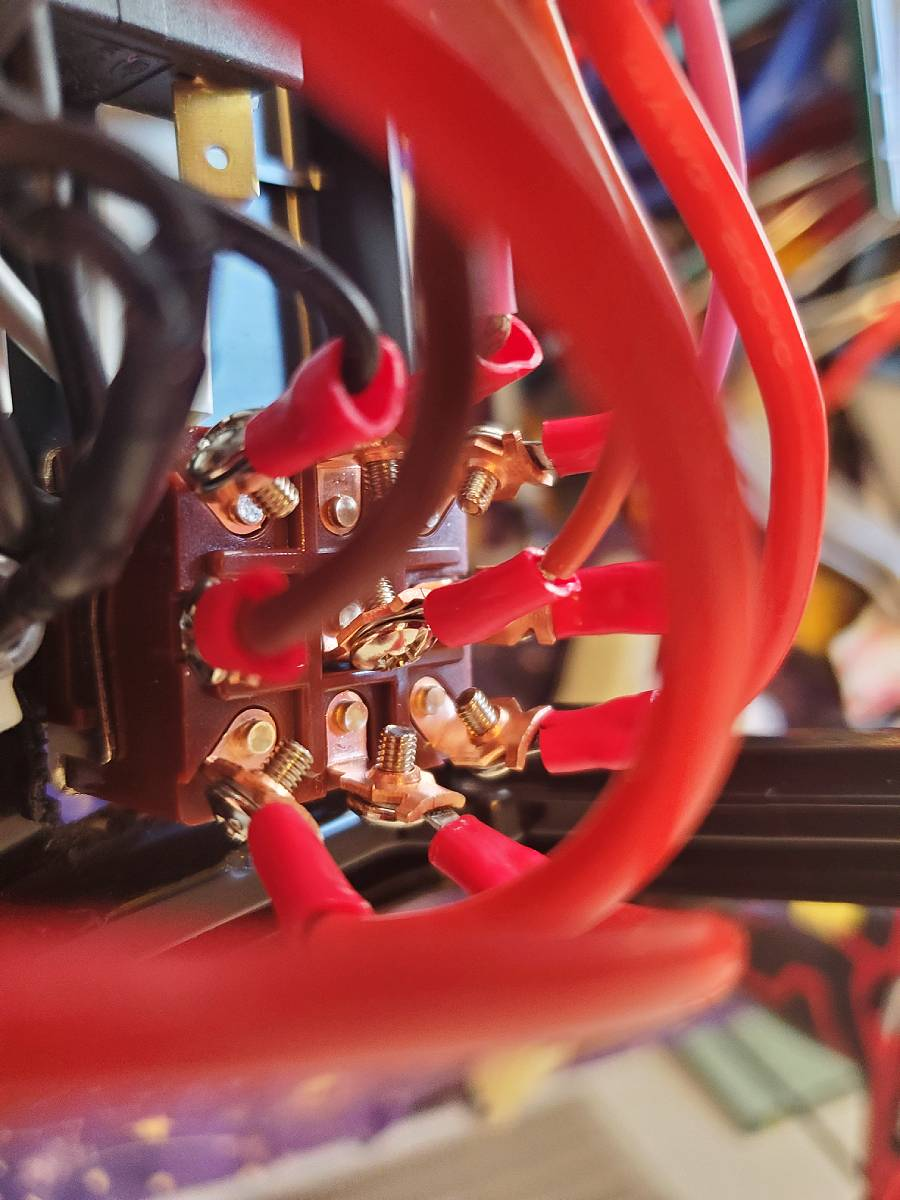
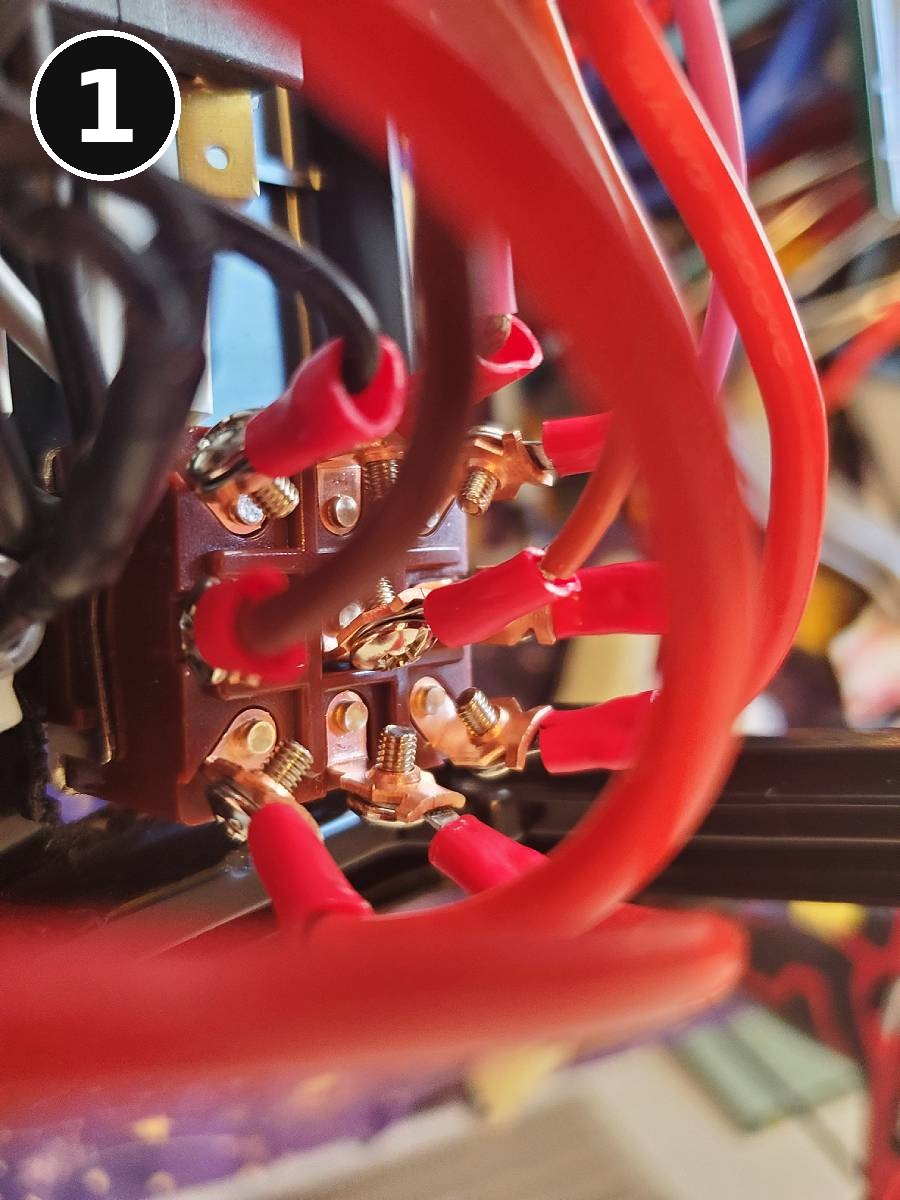
README: numbered wiring photos, caption by number

Changed region(s): [[0.0311, 0.0, 0.2178, 0.1542]]

diff --git a/README.md b/README.md
@@ -63,7 +63,7 @@ Click any picture to see it full size. Photos, left to right: pressure sensor po
 
 <a href="https://raw.githubusercontent.com/centurius222/DeLongezzi/main/docs/wiring-1.jpg"><img src="docs/wiring-1.jpg" width="132" alt="The ON-OFF-ON switch, wired"></a>&nbsp; <a href="https://raw.githubusercontent.com/centurius222/DeLongezzi/main/docs/wiring-2.jpg"><img src="docs/wiring-2.jpg" width="132" alt="The switch and LEDs from behind"></a>&nbsp; <a href="https://raw.githubusercontent.com/centurius222/DeLongezzi/main/docs/wiring-3.jpg"><img src="docs/wiring-3.jpg" width="132" alt="The front panel from inside: knob, LEDs and the new switch"></a>&nbsp; <a href="https://raw.githubusercontent.com/centurius222/DeLongezzi/main/docs/wiring-4.jpg"><img src="docs/wiring-4.jpg" width="132" alt="The wiring inside, from above"></a>&nbsp; <a href="https://raw.githubusercontent.com/centurius222/DeLongezzi/main/docs/wiring-5.jpg"><img src="docs/wiring-5.jpg" width="132" alt="The plug wire for the tank"></a>&nbsp; <a href="https://raw.githubusercontent.com/centurius222/DeLongezzi/main/docs/wiring-6.jpg"><img src="docs/wiring-6.jpg" width="132" alt="Two copper strips on the outside of the tank"></a>
 
-Click any picture to see it full size. Left: mains side; right: low-voltage side. Photos, left to right: the ON-OFF-ON switch, wired; the switch and LEDs from behind; the front panel from inside (knob, LEDs and the new switch); the wiring inside, from above; the plug wire for the tank; two copper strips on the outside of the tank.
+Left: mains side; right: low-voltage side. Photos: 1 the ON-OFF-ON switch, wired; 2 the switch and LEDs from behind; 3 the front panel from inside (knob, LEDs and the new switch); 4 the wiring inside, from above; 5 the plug wire for the tank; 6 two copper strips on the outside of the tank.
 
 Which GPIO each part connects to (GaggiMate's "Pro Lego Build" pins):
 
